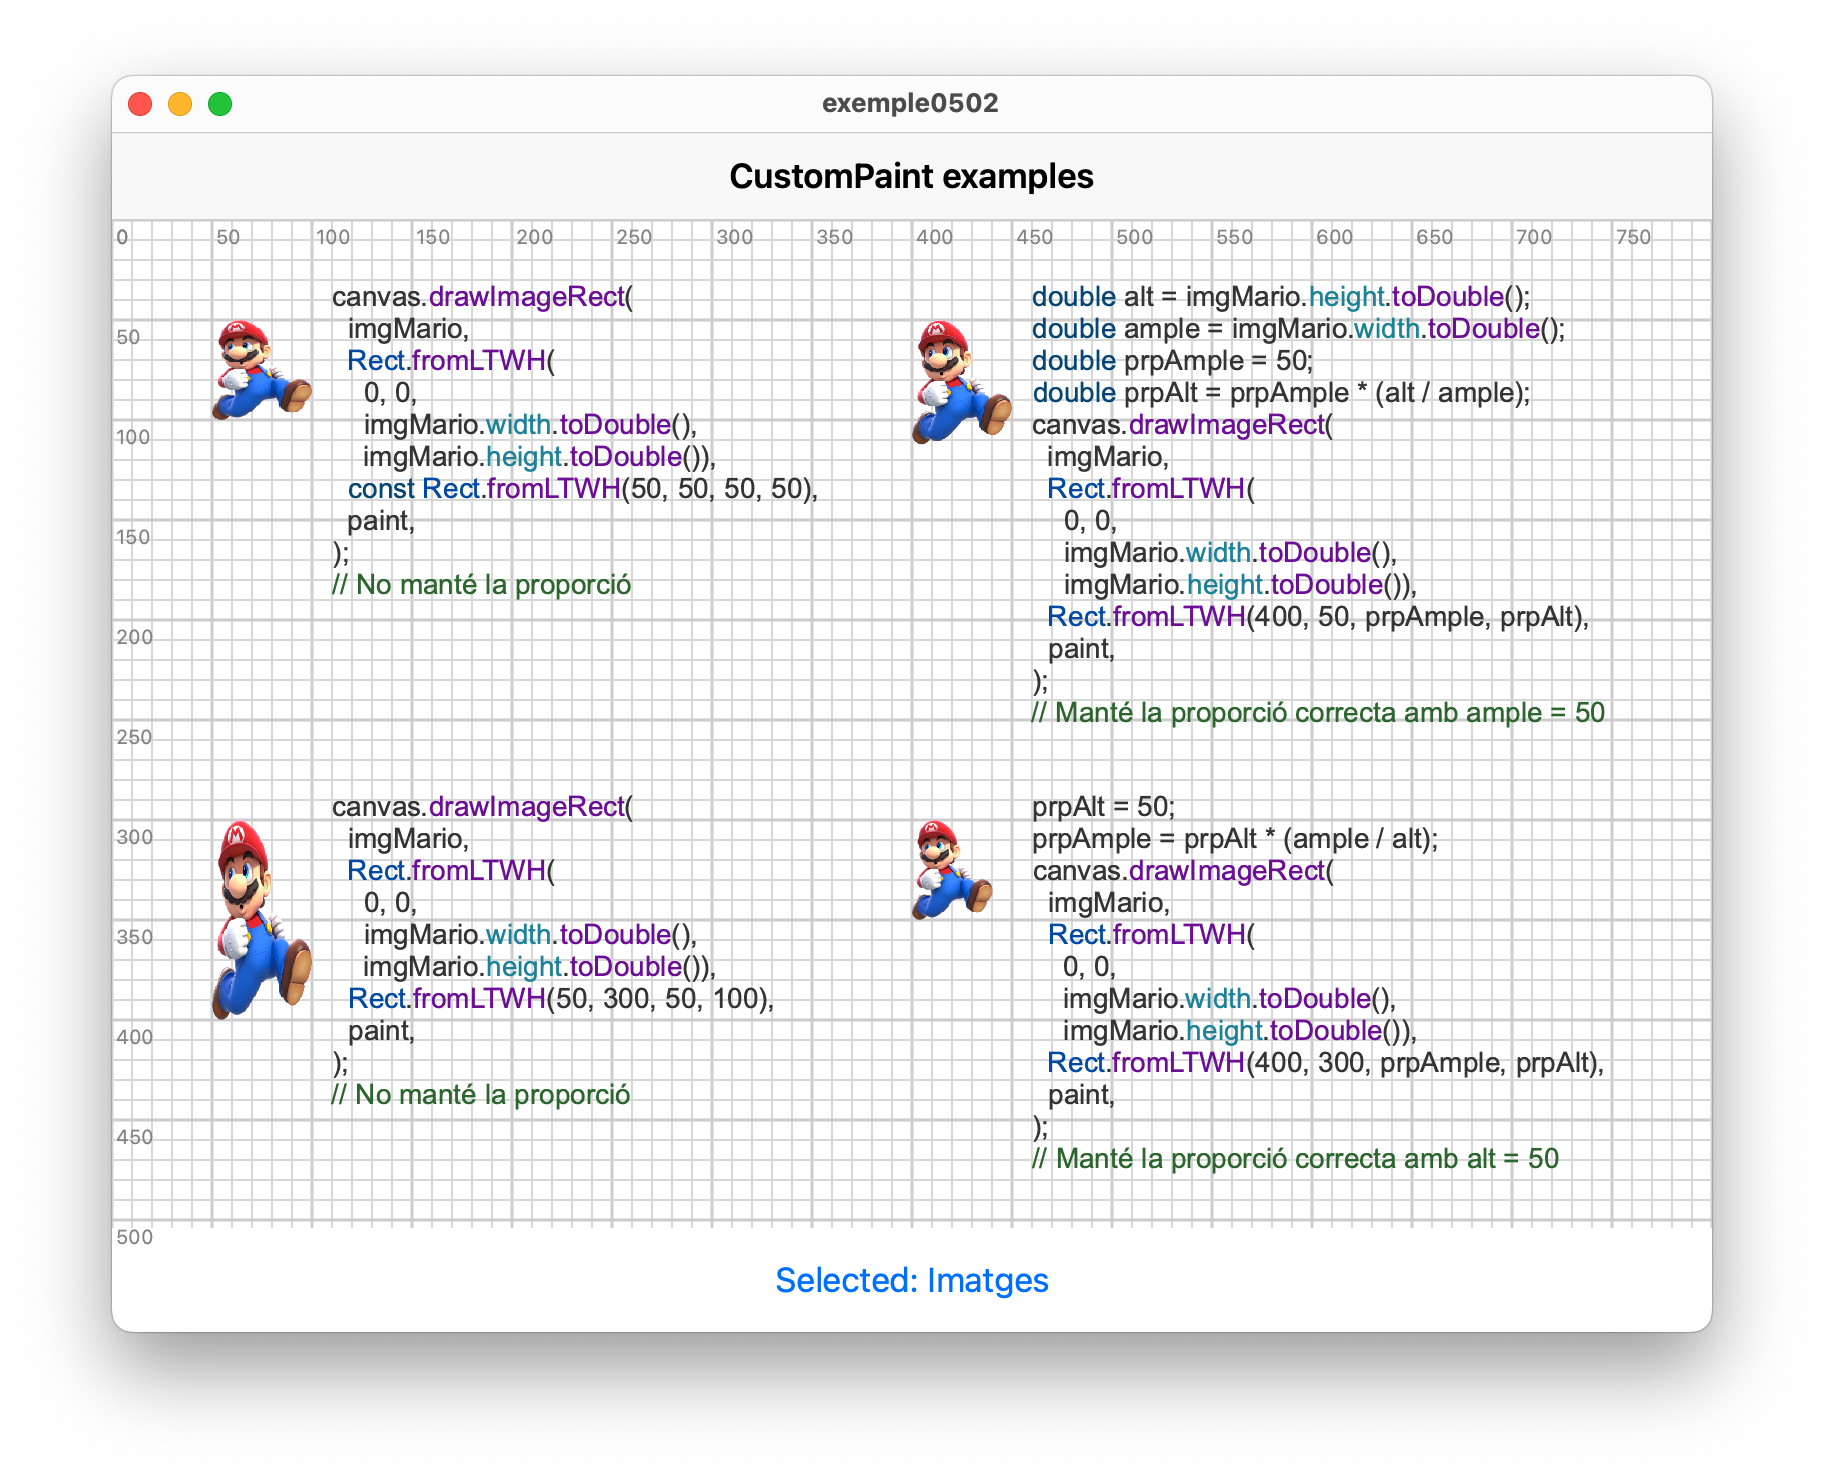
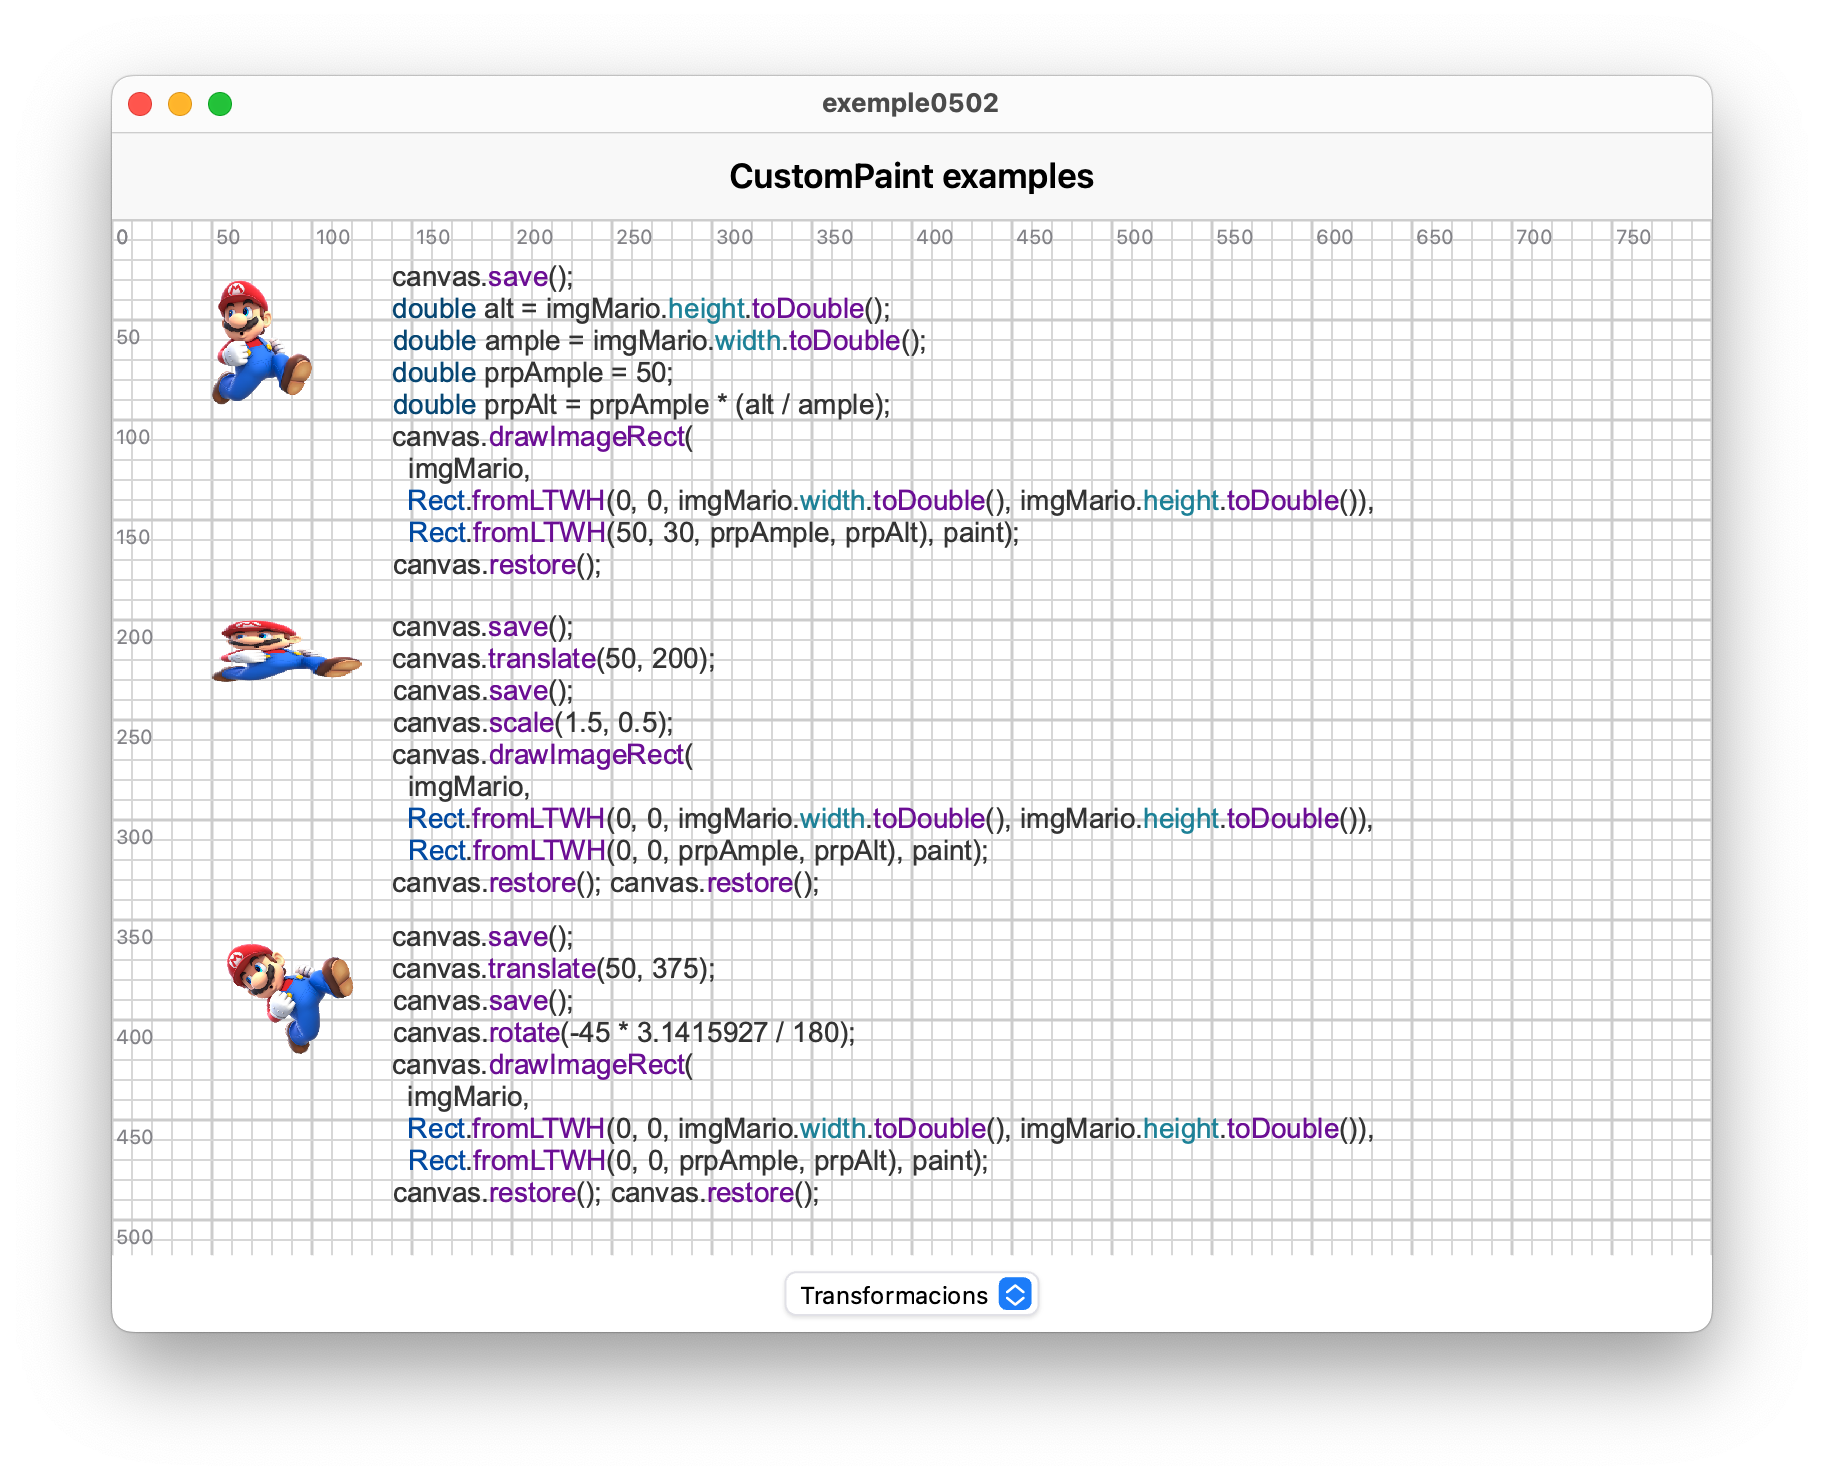
.

Changed region(s): [[0.0938, 0.1865, 0.875, 0.9014]]

diff --git a/Flutter/05 CustomPainter/exemple0502/lib/view_widget.dart b/Flutter/05 CustomPainter/exemple0502/lib/view_widget.dart
@@ -3,6 +3,7 @@ import 'dart:ui' as ui;
 import 'package:flutter/cupertino.dart';
 import 'package:flutter/foundation.dart';
 import 'package:flutter/services.dart';
+import 'package:flutter_cupertino_desktop_kit/cdk.dart';
 import 'drawing_painter.dart';
 
 class ViewWidget extends StatefulWidget {
@@ -13,57 +14,32 @@ class ViewWidget extends StatefulWidget {
 }
 
 class ViewWidgetState extends State<ViewWidget> {
-  String selectedOption = 'Linies';
-  Future<ui.Image?>? imageFuture;
+  Future<ui.Image?>? _imageFuture;
+  int _selectedOption = 0;
+  final List<String> _options = [
+    'Linies',
+    'Quadrats i cercles',
+    'Poligons',
+    'Poligons emplenats',
+    'Gradients lineals',
+    'Gradients radials',
+    'Imatges',
+    'Transformacions',
+    'Texts posicionats 0',
+    'Texts posicionats 1',
+    'Texts multilínia',
+  ];
 
   @override
   void initState() {
     super.initState();
-    imageFuture = _loadImage('assets/images/mario.png');
+    _imageFuture = _loadImage('assets/images/mario.png');
   }
 
-  void _setSelection(String value) {
+  void _onSelected(int value) {
     setState(() {
-      selectedOption = value;
+      _selectedOption = value;
     });
-  }
-
-  void _showActionSheet(BuildContext context) {
-    final List<String> options = [
-      'Linies',
-      'Quadrats i cercles',
-      'Poligons',
-      'Poligons emplenats',
-      'Gradients lineals',
-      'Gradients radials',
-      'Imatges',
-      'Transformacions',
-      'Texts posicionats 0',
-      'Texts posicionats 1',
-      'Texts multilínia',
-    ];
-
-    showCupertinoModalPopup(
-      context: context,
-      builder: (BuildContext context) => CupertinoActionSheet(
-        title: const Text('Select Option'),
-        actions: options.map((String option) {
-          return CupertinoActionSheetAction(
-            child: Text(option),
-            onPressed: () {
-              _setSelection(option);
-              Navigator.pop(context);
-            },
-          );
-        }).toList(),
-        cancelButton: CupertinoActionSheetAction(
-          child: const Text('Cancel'),
-          onPressed: () {
-            Navigator.pop(context);
-          },
-        ),
-      ),
-    );
   }
 
   static Future<ui.Image?> _loadImage(String asset) async {
@@ -99,7 +75,7 @@ class ViewWidgetState extends State<ViewWidget> {
             child: LayoutBuilder(
               builder: (context, constraints) {
                 return FutureBuilder<ui.Image?>(
-                  future: imageFuture,
+                  future: _imageFuture,
                   builder: (context, snapshot) {
                     if (snapshot.connectionState == ConnectionState.waiting) {
                       // Carregant ...
@@ -111,7 +87,8 @@ class ViewWidgetState extends State<ViewWidget> {
                     }
                     // Mostrar el CustomPaint si ja s'han carregat els arxius
                     return CustomPaint(
-                      painter: DrawingPainter(selectedOption, snapshot.data!),
+                      painter: DrawingPainter(
+                          _options[_selectedOption], snapshot.data!),
                       size: Size(constraints.maxWidth, constraints.maxHeight),
                     );
                   },
@@ -119,10 +96,14 @@ class ViewWidgetState extends State<ViewWidget> {
               },
             ),
           ),
-          CupertinoButton(
-            child: Text('Selected: $selectedOption'),
-            onPressed: () => _showActionSheet(context),
-          ),
+          Container(
+              padding: const EdgeInsets.all(8),
+              child: CDKButtonSelect(
+                  selectedIndex: _selectedOption,
+                  isTranslucent: true,
+                  isFlat: false,
+                  options: _options,
+                  onSelected: _onSelected)),
         ],
       ),
     );

diff --git a/Flutter/05 CustomPainter/exemple0502/lib/main.dart b/Flutter/05 CustomPainter/exemple0502/lib/main.dart
@@ -1,4 +1,5 @@
 import 'package:flutter/cupertino.dart';
+import 'package:flutter_cupertino_desktop_kit/cdk.dart';
 import 'view_widget.dart';
 
 void main() {
@@ -10,9 +11,9 @@ class MyApp extends StatelessWidget {
 
   @override
   Widget build(BuildContext context) {
-    return const CupertinoApp(
-      debugShowCheckedModeBanner: false,
-      home: ViewWidget(),
-    );
+    return const CDKApp(
+        defaultAppearance: "system", // system, light, dark
+        defaultColor: "systemBlue",
+        child: ViewWidget());
   }
 }
